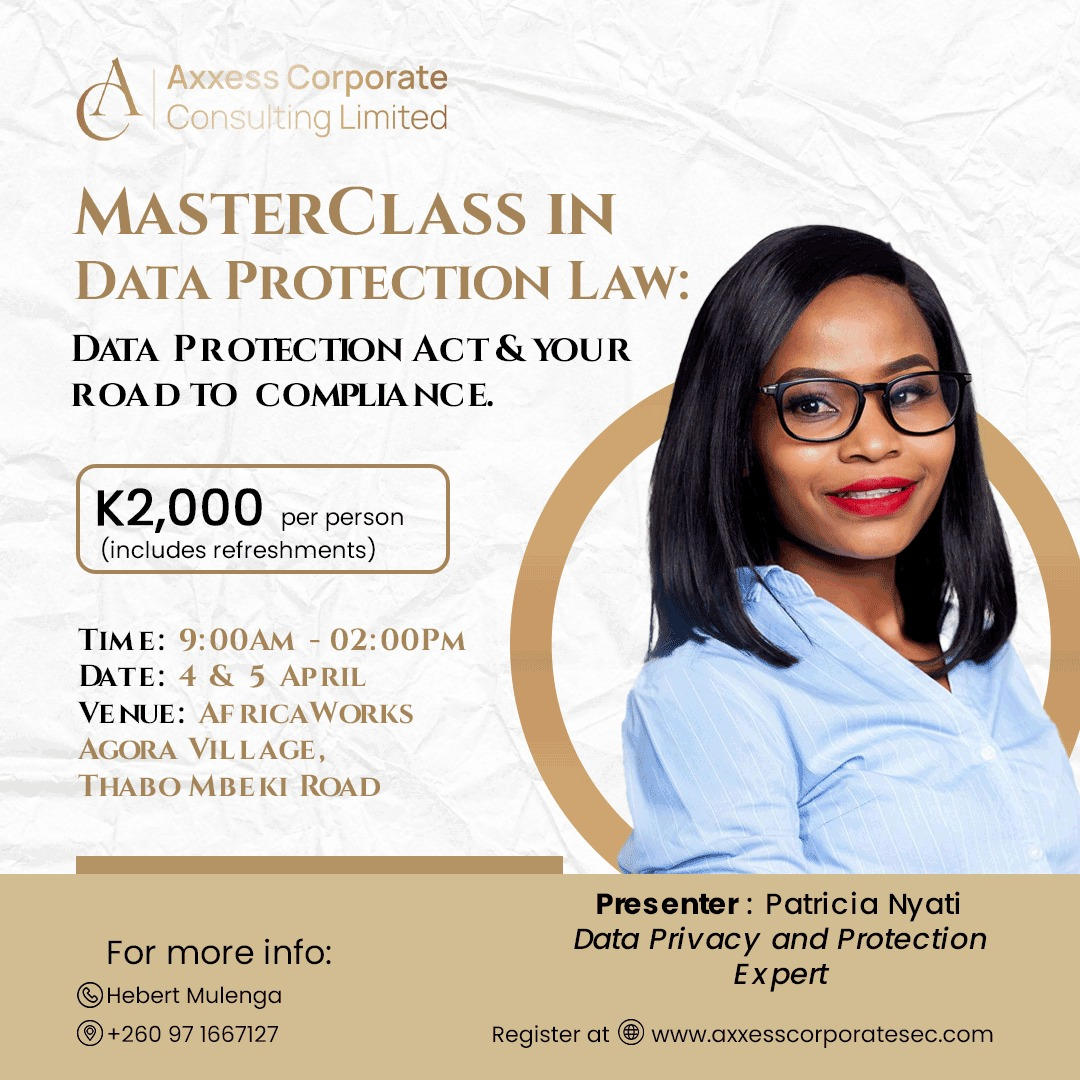
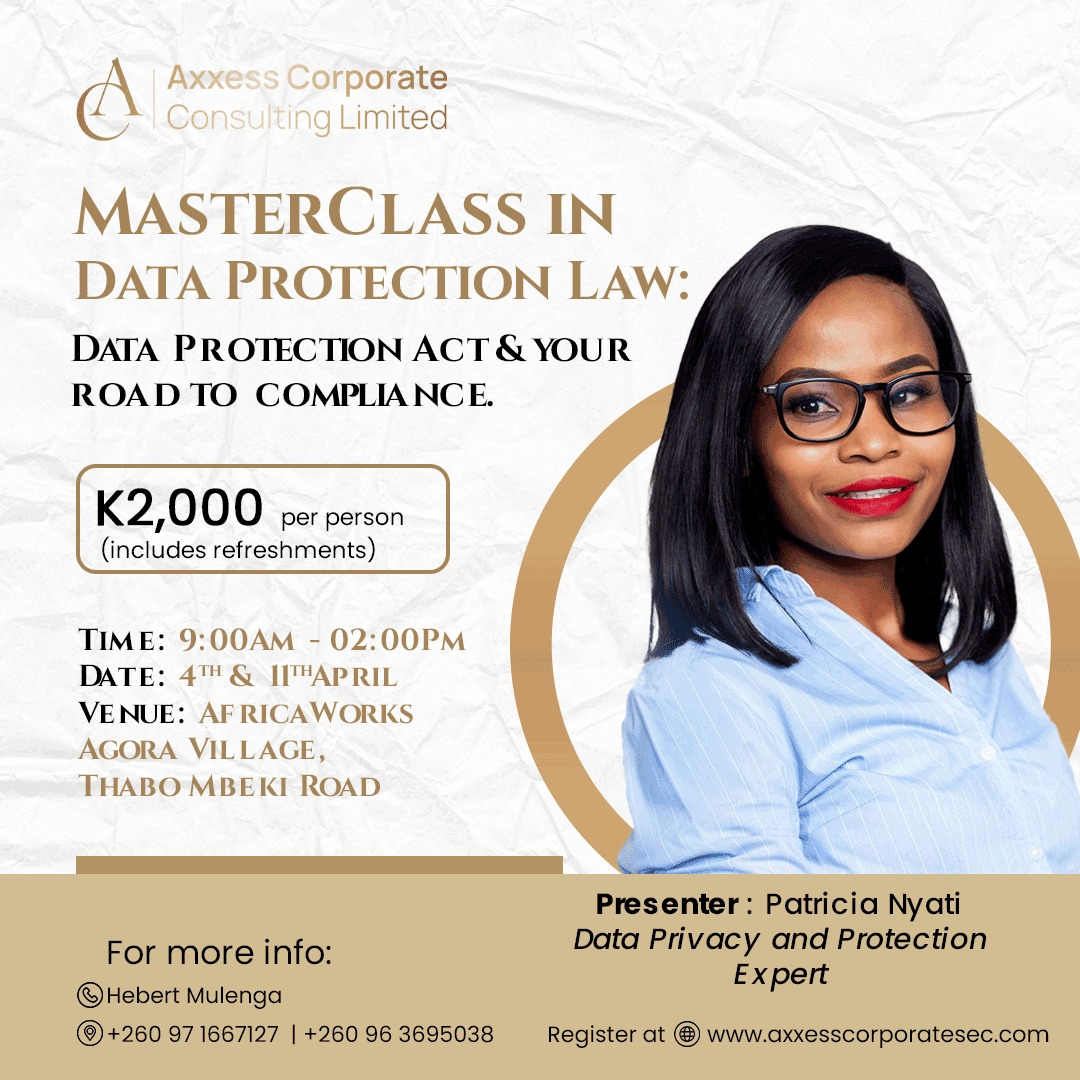
Add registration form

Changed region(s): [[0.275, 0.9472, 0.9778, 0.9778], [0.1833, 0.6111, 0.3667, 0.6417]]

diff --git a/components/events/registration form/index.jsx b/components/events/registration form/index.jsx
@@ -27,7 +27,7 @@ const RegistrationForm = ({image, event, setEvent}) => {
   }, []);
   
   return (
-    <div id='events-registration-form' className="flex-center min-h-screen w-screen overflow-scroll fixed top-0 left-0 z-[100]">
+    <div id='events-registration-form' className="flex-center min-h-screen w-screen fixed top-0 left-0 z-[100] overflow-auto md:overflow-hidden">
       <button className='absolute top-0 left-0 w-screen h-screen bg-black/80 p-4 z-0 cursor-auto' onClick={closeModal} />
       <div className="flex justify-center items-start md:items-center pt-10 md:pt-0 bg-[#ebe1bc] h-[98vh] md:h-[90vh] w-[95%] md:w-[90%] overflow-scroll relative z-[1]">
         <button
@@ -49,8 +49,9 @@ const RegistrationForm = ({image, event, setEvent}) => {
               <Image src={image} alt="Axxess" className="object-contain w-full h-full" />
             </div>
           )}
-          <form action="#" method="POST" className='px-8 md:px-0'>
-            <div className="flex flex-wrap -mx-3 mb-6 gap-10 md:gap-0 mt-10 md:mt-0">
+
+          <form action="#" method="POST" className='px-8 md:px-0 md:mt-10 lg:mt-0'>
+            <div className="flex flex-wrap -mx-3 mb-6 gap-10 md:gap-0 mt-10 md:mt-5">
               <div className="w-full md:w-1/2 px-3">
                 <label className="block uppercase tracking-wide text-black/70 text-xs font-bold mb-2" for="event">
                   Event 
@@ -77,35 +78,59 @@ const RegistrationForm = ({image, event, setEvent}) => {
               <div className="w-full md:w-1/2 px-3 mb-6 md:mb-0">
                 <label className="block uppercase tracking-wide text-black/70 text-xs font-bold mb-2" for="first-name">
                   First Name
+                  <span className="text-[#75471c] mx-1 font-medium text-xs italic lowercase">{'(Required)'}</span>
                 </label>
-                <input required className="appearance-none block w-full text-black/70 border rounded py-3 px-4 mb-3 leading-tight focus:outline-none focus:border-[#75471c]" id="first-name" name="first-name" type="text" autocomplete="given-name" />
-                <p className="text-[#75471c] text-xs italic">Please fill out this field.</p>
+                <input required className="appearance-none block w-full text-black/70 border rounded py-3 px-4 mb-3 leading-tight focus:outline-none focus:border-[#75471c]" id="first-name" name="first-name" type="text" autocomplete="given-name" />                
               </div>
               <div className="w-full md:w-1/2 px-3">
                 <label className="block uppercase tracking-wide text-black/70 text-xs font-bold mb-2" for="last-name">
                   Last Name
+                  <span className="text-[#75471c] mx-1 font-medium text-xs italic lowercase">{'(Required)'}</span>
                 </label>
-                <input required className="appearance-none block w-full text-black/70 border border-gray-200 rounded py-3 px-4 leading-tight focus:outline-none focus:border-[#75471c]" id="last-name" type="text" name="surname" autocomplete="family-name" />
-                <p className="text-[#75471c] text-xs italic">Please fill out this field.</p>
+                <input required className="appearance-none block w-full text-black/70 border border-gray-200 rounded py-3 px-4 leading-tight focus:outline-none focus:border-[#75471c]" id="last-name" type="text" name="surname" autocomplete="family-name" />                
               </div>
             </div>
+
+            <div className="flex flex-wrap -mx-3 mb-6 md:mb-10">
+              <div class="w-full md:w-1/2 px-3 mb-6 md:mb-0">
+                <label className="block uppercase tracking-wide text-black/70 text-xs font-bold mb-2" for="gender">
+                  Gender
+                </label>
+                <div class="relative">
+                  <select class="block appearance-none w-full border border-gray-200 text-gray-700 py-3 px-4 pr-8 rounded leading-tight focus:outline-none focus:border-[#75471c]" id="gender">
+                    <option>Male</option>
+                    <option>Female</option>
+                  </select>
+                  <div class="pointer-events-none absolute inset-y-0 right-0 flex items-center px-2 text-gray-700">
+                    <svg class="fill-current h-4 w-4" xmlns="http://www.w3.org/2000/svg" viewBox="0 0 20 20"><path d="M9.293 12.95l.707.707L15.657 8l-1.414-1.414L10 10.828 5.757 6.586 4.343 8z"/></svg>
+                  </div>
+                </div>
+              </div>
+              <div className="w-full md:w-1/2 px-3">
+                <label className="block uppercase tracking-wide text-black/70 text-xs font-bold mb-2" for="last-name">
+                  Location
+                </label>
+                <input required placeholder='Province, city' className="placeholder-slate-200 appearance-none block w-full text-black/70 border border-gray-200 rounded py-3 px-4 leading-tight focus:outline-none focus:border-[#75471c]" id="last-name" type="text" name="surname" autocomplete="family-name" />                
+              </div>
+            </div>
+
             <div className="flex flex-wrap -mx-3 mb-6">              
               <div className="w-full md:w-1/2 px-3 mb-6 md:mb-0">
                 <label className="block uppercase tracking-wide text-black/70 text-xs font-bold mb-2" for="email">
                   Email
+                  <span className="text-[#75471c] mx-1 font-medium text-xs italic lowercase">{'(Required)'}</span>
                 </label>
-                <input required className="appearance-none block w-full text-black/70 border rounded py-3 px-4 mb-3 leading-tight focus:outline-none focus:border-[#75471c]" id="email" type="email" name="email" autocomplete="email"  />
-                <p className="text-[#75471c] text-xs italic">Please fill out this field.</p>
+                <input placeholder='me@gmail.com' className="placeholder-slate-200 appearance-none block w-full text-black/70 border rounded py-3 px-4 mb-3 leading-tight focus:outline-none focus:border-[#75471c]" id="email" type="email" name="email" autocomplete="email"  />                
               </div>
               <div className="w-full md:w-1/2 px-3">
                 <label className="block uppercase tracking-wide text-black/70 text-xs font-bold mb-2" for="tel">
                   Phone Number
+                  <span className="text-[#75471c] mx-1 font-medium text-xs italic lowercase">{'(Required)'}</span>
                 </label>
-                <input required className="appearance-none block w-full text-black/70 border border-gray-200 rounded py-3 px-4 leading-tight focus:outline-none focus:border-[#75471c]" id="tel" type="tel" name="tel" autocomplete="tel" />
-                <p className="text-[#75471c] text-xs italic">Please fill out this field.</p>
+                <input placeholder='+260970234321' required className="placeholder-slate-200 appearance-none block w-full text-black/70 border border-gray-200 rounded py-3 px-4 leading-tight focus:outline-none focus:border-[#75471c]" id="tel" type="tel" name="tel" autocomplete="tel" />                
               </div>
             </div>            
-            <button type="submit" className="bg-[#75471c] hover:bg-[#58381b] text-white font-semibold rounded-md py-3 mt-10 px-4 w-full">Submit</button>
+            <button type="submit" className="bg-[#75471c] hover:bg-[#58381b] text-white font-semibold rounded-md py-3 mt-5 px-4 w-full">Submit</button>
           </form>
           
         </div>

diff --git a/components/events/index.jsx b/components/events/index.jsx
@@ -169,12 +169,12 @@ const Events = ({setEvent}) => {
                     <li className="flex justify-center mt-10 md:mt-5 2xl:mt-10">
                       <h2 className='text-2xl'>
                         <button
-                        onClick={() => {handleSelectEvent(data_protection, 'Masterclass in Data Protection Law')}}
-                        className="bg-[#75471c] text-white text-center px-5 py-2 border-2 rounded-full">
+                          onClick={() => {handleSelectEvent(data_protection, 'Masterclass in Data Protection Law')}}
+                          className="bg-[#75471c] text-white text-center px-5 py-2 border-2 rounded-full"
+                        >
                           Register
                         </button>     
-                      </h2>  
-                                        
+                      </h2>               
                     </li>
                   </ul>                
                 </div>            
@@ -249,7 +249,7 @@ const Events = ({setEvent}) => {
             </div> 
           </div>
         </section>          
-        <ShortCourses />     
+        <ShortCourses setEvent={setEvent} />     
         <Footer />    
         
       </div>

diff --git a/components/home/short courses/index.jsx b/components/home/short courses/index.jsx
@@ -17,7 +17,7 @@ import course10 from "@/public/backgrounds/course-10.png";
 import { CircleChevronLeft, CircleChevronRight } from 'lucide-react';
 import { useRef } from 'react';
 
-const ShortCourses = () => {
+const ShortCourses = ({setEvent}) => {
 	const scrollRef = useRef(null);
 
   const scroll = (direction) => {
@@ -105,7 +105,16 @@ const ShortCourses = () => {
 										<div className="card__header-text flex gap-5">
 												<h3 className="card__title">{course.title}</h3>            
 												<div className='flex justify-between items-center'>
-													<a href='/contact-us' className="card__status px-2 py-1 border-2 border-white rounded-xl cursor-pointer">Enroll</a>												
+													<button 
+														onClick={() => {setEvent({
+															eventImage: course.image,
+															eventName: course.name
+														})
+														}}
+														className="card__status px-2 py-1 border-2 border-white rounded-xl cursor-pointer"
+													>
+														Enroll
+													</button>
 												</div>
 										</div>
 										</div>
